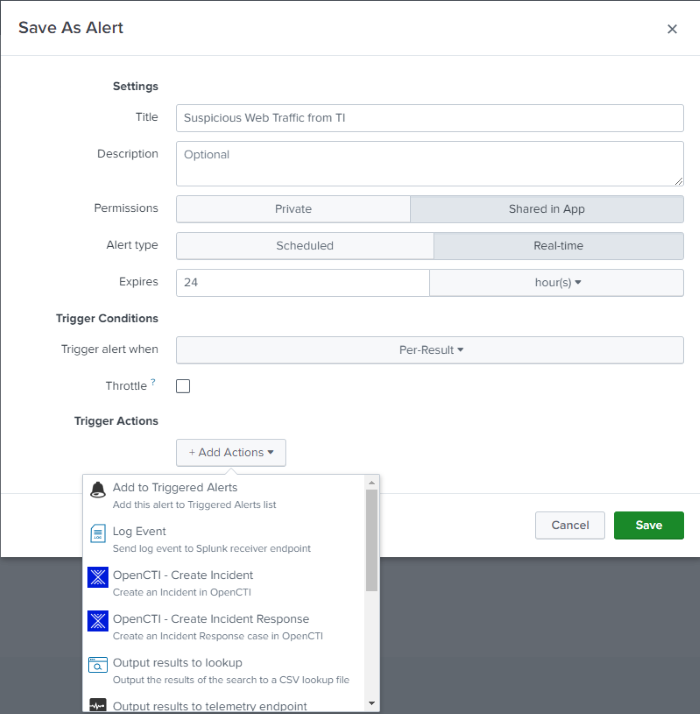
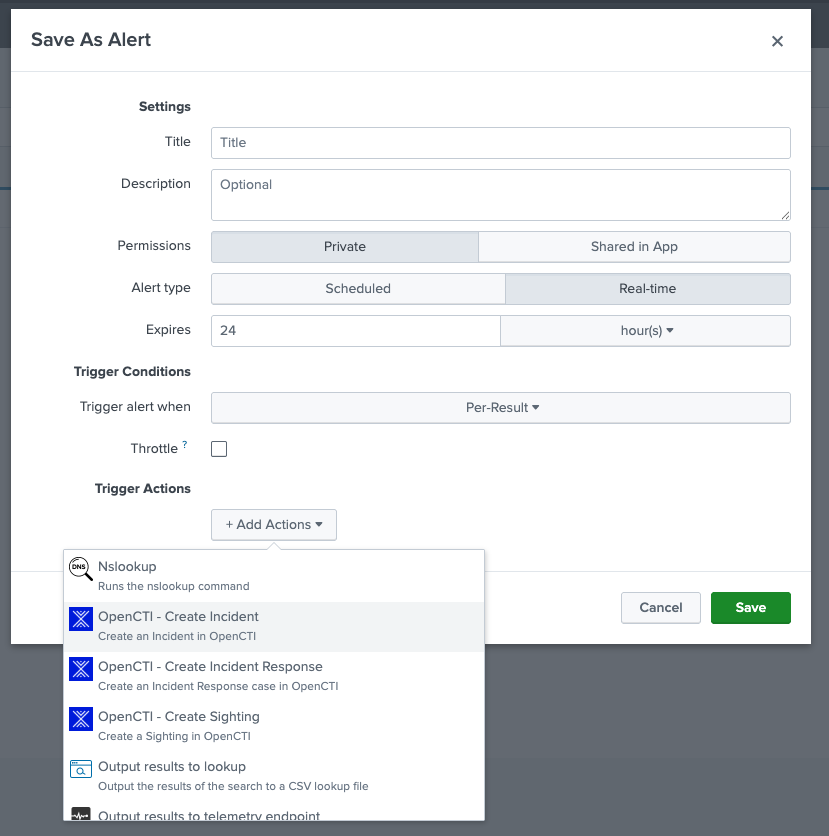
sighting alert action documentation

diff --git a/README.md b/README.md
@@ -18,10 +18,10 @@ The app is installed
 
 ### Installing from file
 
-1. Download latest version of the Splunk App: [TA-opencti-add-on-1.1.6.spl](https://github.com/OpenCTI-Platform/splunk-add-on/releases/download/1.1.6/TA-opencti-add-on-1.1.6.spl)
+1. Download latest version of the Splunk App: [TA-opencti-add-on-1.1.7.tar.gz](https://github.com/OpenCTI-Platform/splunk-add-on/releases/download/1.1.7/TA-opencti-add-on-1.1.7.tar.gz)
 2. Log in to the Splunk Web UI and navigate to "Apps" and click on "Manage Apps"
 3. Click "Install app from file"
-4. Choose file and select the "TA-opencti-add-on-1.1.6.spl" file
+4. Choose file and select the "TA-opencti-add-on-1.1.7.tar.gz" file
 5. Click on Upload
 The app is installed
 
@@ -99,24 +99,24 @@ The ingestion process can also be monitored by consulting the log file ```ta_ope
 
 ## OpenCTI custom alert actions
 
-You can use the "OpenCTI Add-on for Splunk" to create custom alert actions that automatically create incidents or incidents response case in response to alert trigger by Splunk.
+You can use the "OpenCTI Add-on for Splunk" to create custom alert actions that automatically create 'incidents' or/and 'incident response cases' or/and 'sighting' in response to alert trigger by Splunk.
 
-### Create an incident or an incident response case in OpenCTI
+### Create an incident or/and an incident response case or/and a sighting in OpenCTI
 
 You can create an incident or an incident response case in OpenCTI from a custom alert action.
 1. Write a Splunk search query.
 2. Click Save As > Alert.
 3. Fill out the Splunk Alert form. Give your alert a unique name and indicate whether the alert is a real-time alert or a scheduled alert.
 4. Under Trigger Actions, click Add Actions.
-5. From the list, select "OpenCTI - Create Incident" if you want the alert to create an incident in OpenCTI or "OpenCTI - Create Incident Response" if you want to create an incident response case in OpenCTI.
+5. From the list, select "OpenCTI - Create Incident" if you want the alert to create an incident in OpenCTI or "OpenCTI - Create Incident Response" if you want to create an incident response case in OpenCTI or "OpenCTI - Create Sighting" if you want to create a sighting in OpenCTI.
 
 ![](./.github/img/alert_actions.png "Custom Alert Actions")
 
-6. Complete the form with the following settings:
+6. To create and incident or an incident response case, complete the form with the following settings:
 
 | Parameter                | Description                                           | Scope                             |
 |--------------------------|-------------------------------------------------------|-----------------------------------|
-| `Name`                   | Name of the incident or incident response case        | Incident & Incident response case |
+| `Name`                   | Name of the incident                                  | Incident & Incident response case |
 | `Description`            | Description of the incident or incident response case | Incident & Incident response case |                              
 | `Type`                   | Incident Type or incident response case type          | Incident & Incident response case |                              
 | `Severity`               | Severity of the incident or incident response case    | Incident & Incident response case | 
@@ -125,8 +125,18 @@ You can create an incident or an incident response case in OpenCTI from a custom
 | `TLP`                    | Markings to be applied                                | Incident & Incident response case | 
 | `Observables extraction` | Method for extracting observables                     | Incident & Incident response case | 
 
+7. To create a sighting, complete the form with the following settings:
 
-You can also use [Splunk "tokens"](https://docs.splunk.com/Documentation/Splunk/9.2.2/Alert/EmailNotificationTokens#Result_tokens) as variables in the form to contextualize the data imported into OpenCTI.
+| Parameter                | Description                                                   | Scope      |
+|--------------------------|---------------------------------------------------------------|------------|
+| `Sighting Of (value)`    | Value of what was sighted                                     | Sighting   |
+| `Sighting Of (type)`     | Type of what was sighted (URL, Domain, IPV4, IPV6)            | Sighting   |                              
+| `Where Sighted (value)`  | Value of the 'System' or 'Organization' that saw the sighting | Sighting   |                              
+| `Where Sighted (type)`   | 'System' or 'Organization' that saw the sighting              | Sighting   | 
+| `Labels`                 | Labels (separated by a comma) to be applied                   | Sighting   | 
+| `TLP`                    | Markings to be applied                                        | Sighting   | 
+
+You can use [Splunk "tokens"](https://docs.splunk.com/Documentation/Splunk/9.2.2/Alert/EmailNotificationTokens#Result_tokens) as variables in the form to contextualize the data imported into OpenCTI.
 Tokens represent data that a search generates. They work as placeholders or variables for data values that populate when the search completes.
 
 Example of a configuration to create an incident in OpenCTI
